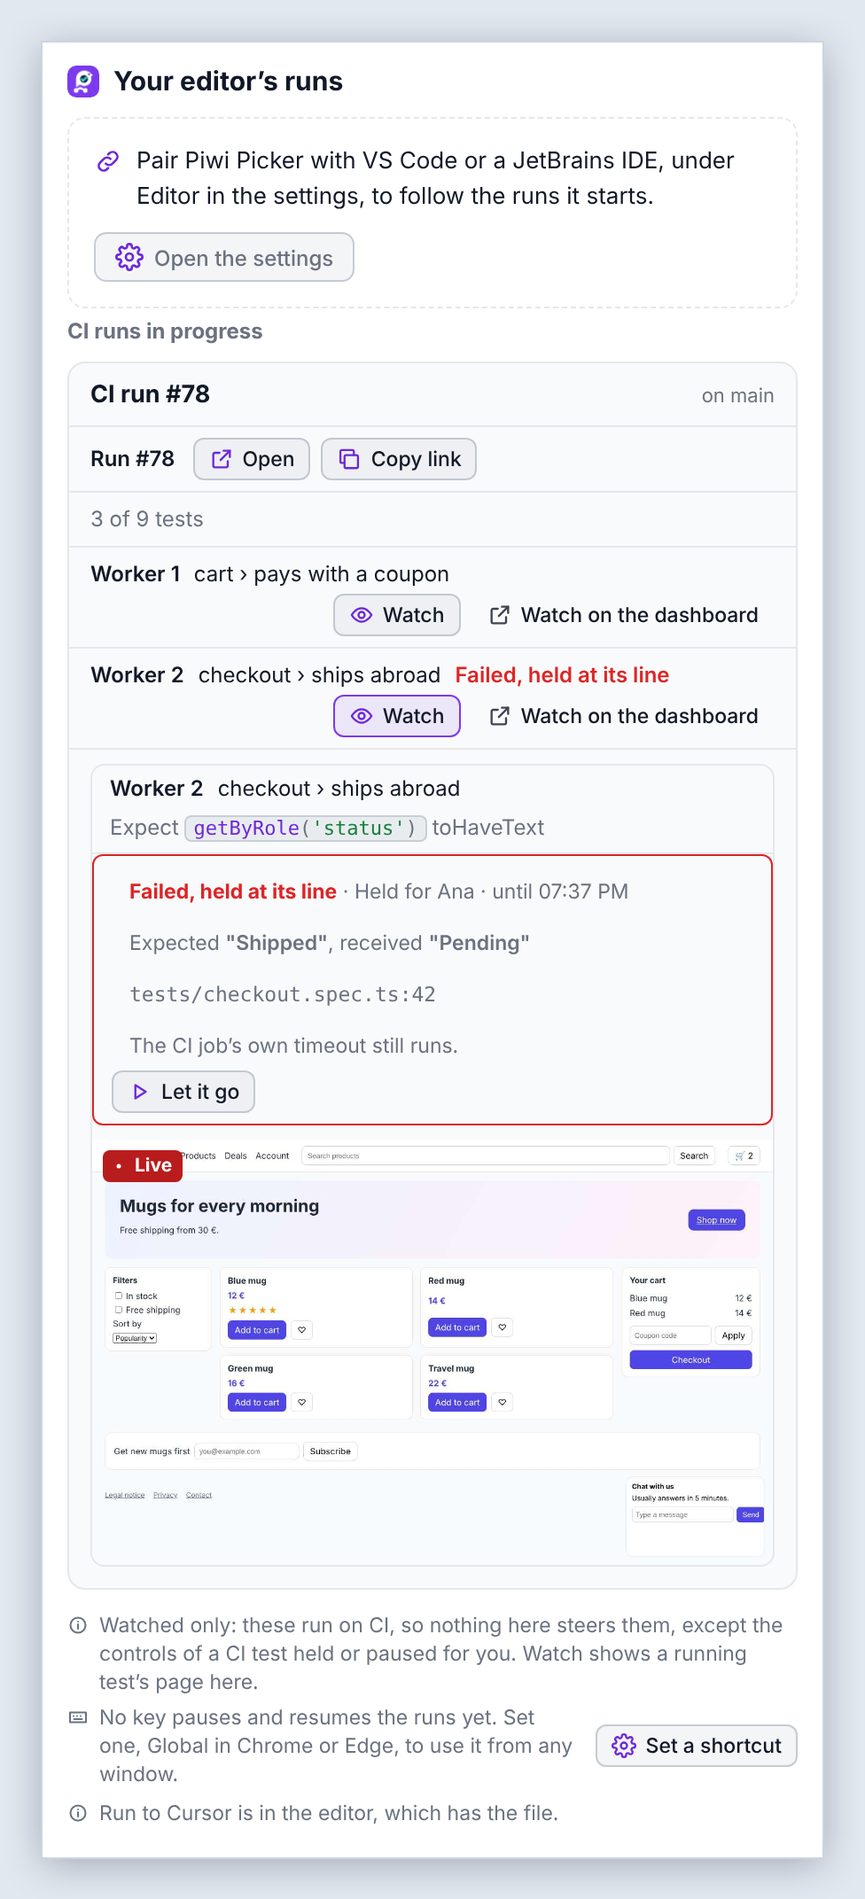
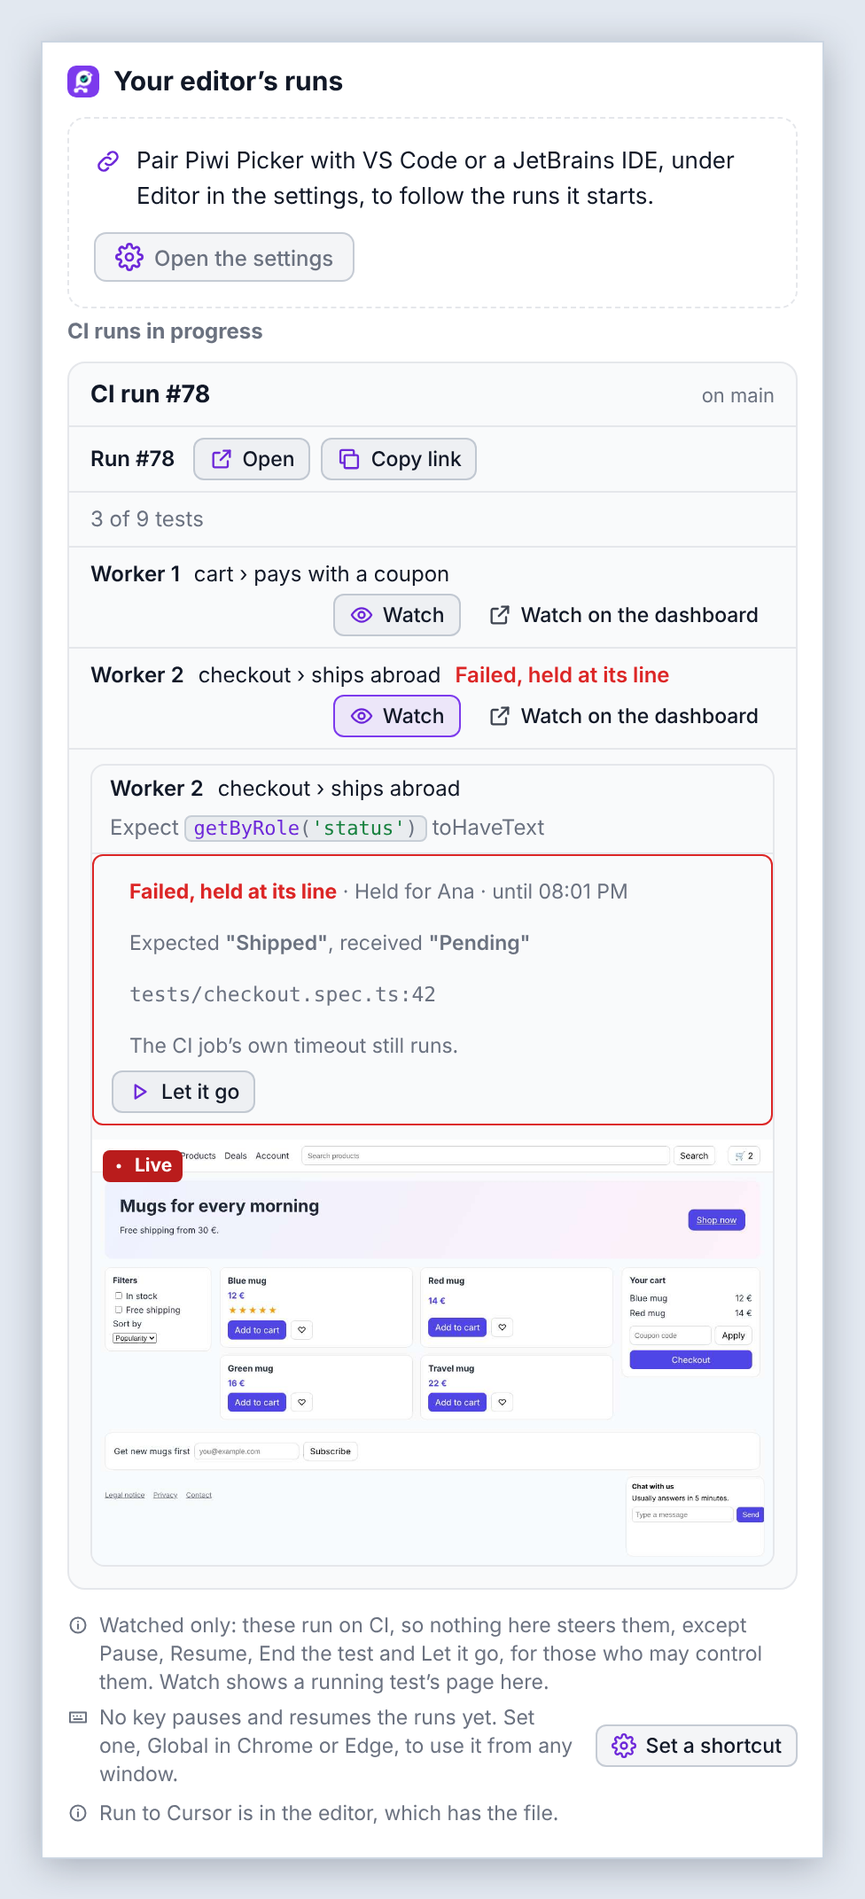
fix(extension): keep a CI lane's controls and their answer in step with its state
The run model names a lane's state by its worker, its test and the instance's
pauseSeq, and CiAsks forgets an ask the instance took once the lane shows
anything new, so a Pause dropped again for the same reason no longer leaves
Pause off. The Runs window drops what an ask came to once the lane's state
changes, and draws its controls again as the state does, so a new worker's
press posts once, for that worker. The CI runs' note names Pause, Resume, End
the test and Let it go, for those who may control them, in all five languages,
and the extension's guide keeps its rule that the CI view's images stay in
memory.

Claude-Session: https://claude.ai/code/session_01ADXAbeVo5hXs63eeexKcKH

Changed region(s): [[0.123, 0.8623, 0.8607, 0.8931], [0.6455, 0.462, 0.6762, 0.4928]]

diff --git a/packages/run-model/src/ci.ts b/packages/run-model/src/ci.ts
@@ -108,7 +108,7 @@ export function ciRunWhere(run: Pick<CiRun, 'branch' | 'project'>, severalProjec
   return project ? { key: 'runs_ciProject', args: { project } } : null;
 }
 
-/** What a surface says of every CI run it lists: they run on CI, watched only but for the controls of a test held or paused. */
+/** What a surface says of every CI run it lists: they run on CI, watched only but for the controls a controller is offered. */
 export const CI_READ_ONLY: RunMessage = { key: 'runs_ciReadOnly' };
 
 /**
@@ -228,32 +228,44 @@ export function ciHoldKey(hold: Pick<CiHold, 'worker' | 'until'>): string {
 /**
  * **Let it go**, **Pause**, **Resume** and **End the test** asked of each CI lane (by a surface's own key of the lane),
  * once per state of the lane (`ciHoldKey` for a hold, `ciControlStateKey` for the controls): a button is off from its
- * ask until the lane's state changes, and on again after a refusal. A state the lane comes back to (a Pause dropped
- * again for the same reason) is asked anew, since the surface saw it change in between (`seen`).
+ * ask until the lane's state changes (`seen` with another key), and on again after a refusal (`refused`). An ask the
+ * instance took (`took`) goes too as soon as the lane shows anything new (`seen` with another `shown`), whatever its
+ * key: a surface that missed the states in between asks again in the one it sees.
  */
 export class CiAsks {
-  private readonly states = new Map<string, string>();
+  private readonly asks = new Map<string, { state: string; shown: string | null }>();
 
   /** Whether a control was asked in the state `state` of `lane`, and waits for its answer or went through. */
   asked(lane: string, state: string): boolean {
-    return this.states.get(lane) === state;
+    return this.asks.get(lane)?.state === state;
   }
 
   /** Ask in the state `state` of `lane`: false when a control was asked in it already. */
   ask(lane: string, state: string): boolean {
     if (this.asked(lane, state)) return false;
-    this.states.set(lane, state);
+    this.asks.set(lane, { state, shown: null });
     return true;
   }
 
   /** The ask in `state` was refused: a control may be asked in it again. */
   refused(lane: string, state: string): void {
-    if (this.asked(lane, state)) this.states.delete(lane);
+    if (this.asked(lane, state)) this.asks.delete(lane);
   }
 
-  /** The lane stands in `state` now (null for none): an ask of another state goes. */
-  seen(lane: string, state: string | null): void {
-    if (this.states.has(lane) && this.states.get(lane) !== state) this.states.delete(lane);
+  /** The instance took the ask in `state` while the lane showed `shown`: it goes once the lane shows anything else. */
+  took(lane: string, state: string, shown: string): void {
+    const ask = this.asks.get(lane);
+    if (ask?.state === state) ask.shown = shown;
+  }
+
+  /**
+   * The lane stands in `state` now (null for none), shown as `shown` (what the surface draws of it, as text): an ask of
+   * another state goes, and so does one the instance took while the lane showed something else.
+   */
+  seen(lane: string, state: string | null, shown: string | null = null): void {
+    const ask = this.asks.get(lane);
+    if (!ask) return;
+    if (ask.state !== state || (ask.shown !== null && shown !== null && ask.shown !== shown)) this.asks.delete(lane);
   }
 }
 
@@ -408,14 +420,16 @@ export function ciWorkerStateOf(
 }
 
 /**
- * The state of a CI lane's worker that its controls follow (`CiAsks`): running (with why its last Pause was dropped),
- * a Pause asked, or paused until its end; null for a worker that cannot pause.
+ * The state of a CI lane's worker that its controls follow (`CiAsks`): its test (`test`, the surface's id of it, null
+ * when unknown), the instance's count of its pause state's changes (`pauseSeq`), and running (with why its last Pause
+ * was dropped), a Pause asked, or paused until its end; null for a worker that cannot pause.
  */
-export function ciControlStateKey(state: unknown): string | null {
+export function ciControlStateKey(state: unknown, test: string | null): string | null {
   const fields = pausingWorker(state);
   const id = fields ? readLiveWorkerId(fields.shard, fields.worker, fields.slot) : null;
   if (!id) return null;
-  const at = `${id.shard ?? ''}:${id.worker}`;
+  const seq = typeof fields!.pauseSeq === 'number' && Number.isInteger(fields!.pauseSeq) ? fields!.pauseSeq : 0;
+  const at = `${id.shard ?? ''}:${id.worker}:${test ?? ''}:${seq}`;
   const pause = readCiPause(state);
   if (pause) return `${at}:paused:${pause.until ?? ''}`;
   const ask = readCiPauseAsk(state);

diff --git a/apps/extension/tests/e2e/runs-ci.spec.ts b/apps/extension/tests/e2e/runs-ci.spec.ts
@@ -277,6 +277,88 @@ test('a controller pauses a CI test on the watch of its lane, sees the Pause ask
   await expect(run.getByRole('button', { name: 'Pause', exact: true })).not.toHaveAttribute('aria-disabled', 'true');
 });
 
+/** A `lane` event of the run's stream, as a busy run sends one between the workers' states. */
+function laneEvent(n: number, worker: number, title: string, retry = 0) {
+  const event = {
+    id: { run: 78, shard: null, lane: n },
+    state: 'running',
+    worker,
+    test: { id: `t${n}-${retry}`, title, retry },
+    stop: null,
+    waiting: null,
+    done: 3,
+    failed: retry,
+  };
+  for (const res of instance.runStreams)
+    res.write(`data: ${JSON.stringify({ type: 'lane', data: event, seq: 1 })}\n\n`);
+}
+
+test('a Pause the worker drops says so alone, and Pause is offered again however fast the drop came', async ({
+  context,
+  extensionId,
+}) => {
+  instance.controller = true;
+  const page = await context.newPage();
+  await openRuns(page, extensionId);
+  const run = page.getByRole('region', { name: 'CI run #78' });
+  await run
+    .getByRole('listitem')
+    .filter({ hasText: 'Worker 2' })
+    .getByRole('button', { name: 'Watch', exact: true })
+    .click();
+  await expect.poll(() => instance.watches.length).toBe(1);
+  const why = 'No test runs on this worker now.';
+  instance.worker({ ...PAUSING, pauseSeq: 1 });
+  const pause = run.getByRole('button', { name: 'Pause', exact: true });
+  await pause.click();
+  await expect.poll(() => instance.controls.length).toBe(1);
+  await expect(run.locator('.ci-controls')).toContainText('The test pauses before its next call.');
+  // The Pause is taken, then dropped at once: what the click came to goes with the state it was said in.
+  laneEvent(0, 4, 'cart › pays with a coupon');
+  instance.worker({ ...PAUSING, pauseAsked: {}, pauseSeq: 2 });
+  instance.worker({ ...PAUSING, pauseDropped: why, pauseSeq: 3 });
+  await expect(run.locator('.ci-controls')).toContainText(`The Pause was dropped: ${why}`);
+  await expect(run.locator('.ci-controls')).not.toContainText('The test pauses before its next call.');
+  await expect(pause).not.toHaveAttribute('aria-disabled', 'true');
+  // The same again, the same reason: Pause is offered again all the same.
+  await pause.click();
+  await expect.poll(() => instance.controls.length).toBe(2);
+  instance.worker({ ...PAUSING, pauseAsked: {}, pauseSeq: 4 });
+  instance.worker({ ...PAUSING, pauseDropped: why, pauseSeq: 5 });
+  await expect(pause).not.toHaveAttribute('aria-disabled', 'true');
+});
+
+test('a new worker in the lane takes the controls: one press, one command, for that worker', async ({
+  context,
+  extensionId,
+}) => {
+  instance.controller = true;
+  const page = await context.newPage();
+  await openRuns(page, extensionId);
+  const run = page.getByRole('region', { name: 'CI run #78' });
+  await run
+    .getByRole('listitem')
+    .filter({ hasText: 'Worker 2' })
+    .getByRole('button', { name: 'Watch', exact: true })
+    .click();
+  await expect.poll(() => instance.watches.length).toBe(1);
+  instance.worker({ ...PAUSING, pauseSeq: 1 });
+  await expect(run.getByRole('button', { name: 'Pause', exact: true })).toBeVisible();
+  // Playwright starts worker 6 in the lane after a failure: the lane's next test.
+  laneEvent(1, 6, 'checkout › ships abroad', 1);
+  instance.worker({ ...PAUSING, connected: false });
+  instance.worker({ ...PAUSING, worker: 6, pauseSeq: 0 });
+  await page.waitForTimeout(800);
+  const pause = run.getByRole('button', { name: 'Pause', exact: true });
+  await pause.click();
+  await pause.dispatchEvent('click');
+  await page.waitForTimeout(500);
+  expect(instance.controls.map((c) => c.body)).toEqual([
+    { watch: 'watch-0123456789ab', shard: null, worker: 6, slot: 1, command: 'pause' },
+  ]);
+  await expect(pause).toHaveAttribute('aria-disabled', 'true');
+});
+
 test('a CI test paused offers no control to a watch the instance did not say is a controller’s', async ({
   context,
   extensionId,

diff --git a/packages/run-model/tests/ci.test.ts b/packages/run-model/tests/ci.test.ts
@@ -99,7 +99,7 @@ describe('the CI runs of a project in progress', () => {
     expect(where(run(78, { branch: null }), true)).toBe('Shop');
     expect(where(run(78, { branch: null }), false)).toBeNull();
     expect(en.say(CI_READ_ONLY.key)).toContain(
-      'nothing here steers them, except the controls of a CI test held or paused for you',
+      'nothing here steers them, except Pause, Resume, End the test and Let it go, for those who may control them',
     );
   });
 });
@@ -327,12 +327,21 @@ describe('the controls of a CI lane, asked once per state', () => {
   };
 
   it('names each state of a lane’s worker apart: running, a Pause asked, paused until its end, a Pause dropped', () => {
-    expect(ciControlStateKey(state())).toBe(':3:running:');
-    expect(ciControlStateKey(state({ pauseAsked: { by: 'Ana' } }))).toBe(':3:asked');
-    expect(ciControlStateKey(state({ paused: PAUSED, pausedBy: 'Ana' }))).toBe(':3:paused:1763727900000');
-    expect(ciControlStateKey(state({ pauseDropped: 'No test runs.' }))).toBe(':3:running:No test runs.');
-    expect(ciControlStateKey(state({ pauses: undefined }))).toBeNull();
-    expect(ciControlStateKey(null)).toBeNull();
+    expect(ciControlStateKey(state(), 't1')).toBe(':3:t1:0:running:');
+    expect(ciControlStateKey(state({ pauseAsked: { by: 'Ana' }, pauseSeq: 1 }), 't1')).toBe(':3:t1:1:asked');
+    expect(ciControlStateKey(state({ paused: PAUSED, pausedBy: 'Ana', pauseSeq: 3 }), 't1')).toBe(
+      ':3:t1:3:paused:1763727900000',
+    );
+    expect(ciControlStateKey(state({ pauseDropped: 'No test runs.', pauseSeq: 2 }), 't1')).toBe(
+      ':3:t1:2:running:No test runs.',
+    );
+    // A Pause dropped again for the same reason, or the worker's next test, is another state.
+    expect(ciControlStateKey(state({ pauseDropped: 'No test runs.', pauseSeq: 4 }), 't1')).not.toBe(
+      ciControlStateKey(state({ pauseDropped: 'No test runs.', pauseSeq: 2 }), 't1'),
+    );
+    expect(ciControlStateKey(state(), 't2')).not.toBe(ciControlStateKey(state(), 't1'));
+    expect(ciControlStateKey(state({ pauses: undefined }), 't1')).toBeNull();
+    expect(ciControlStateKey(null, 't1')).toBeNull();
   });
 
   it('finds the state of a lane’s worker: by its lane and its worker, else, from an older reporter, its worker', () => {
@@ -344,6 +353,23 @@ describe('the controls of a CI lane, asked once per state', () => {
     expect(ciWorkerStateOf([lane1], { shard: null, slot: 1 }, 4)).toBeNull();
     expect(ciWorkerStateOf([older], { shard: null, slot: 2 }, 5)).toBe(older);
     expect(ciWorkerStateOf([lane1], { shard: 2, slot: 1 }, 3)).toBeNull();
+  });
+
+  it('forgets an ask the instance took once the lane shows anything new, whatever its state’s key', () => {
+    const asks = new CiAsks();
+    expect(asks.ask('lane', 'k')).toBe(true);
+    asks.seen('lane', 'k', 'shown-1');
+    asks.took('lane', 'k', 'shown-1');
+    // Redrawn as it was: still asked.
+    asks.seen('lane', 'k', 'shown-1');
+    expect(asks.asked('lane', 'k')).toBe(true);
+    // Anything new of the lane after the answer, even under the same key: asked anew.
+    asks.seen('lane', 'k', 'shown-2');
+    expect(asks.asked('lane', 'k')).toBe(false);
+    // An ask not answered yet stays while the lane's key stays.
+    asks.ask('lane', 'k');
+    asks.seen('lane', 'k', 'shown-3');
+    expect(asks.asked('lane', 'k')).toBe(true);
   });
 
   it('forgets an ask as the lane’s state changes, so the same state coming back is asked anew', () => {

diff --git a/apps/extension/src/runs/main.ts b/apps/extension/src/runs/main.ts
@@ -1314,8 +1314,8 @@ interface CiView extends RunsCiLane {
   call: string | null;
   /** The instance said this window's watch of the lane counts as a controller's: **Let it go** may be offered. */
   controller: boolean;
-  /** What **Let it go** or a control came to, until the lane's hold or pause changes. */
-  ciNote: { ok: boolean; text: string } | null;
+  /** What **Let it go** or a control came to, in the lane's state it was asked in (`state`), dropped once it changes. */
+  ciNote: { ok: boolean; text: string; state: string } | null;
 }
 
 let ciView: CiView | null = null;
@@ -1484,8 +1484,16 @@ const ciAsks = new CiAsks();
 function ciStateKey(test: RunsCiTest | undefined): string | null {
   if (!test) return null;
   if (test.held) return `held:${ciHoldKey(test.held)}`;
-  const state = test.live ? ciControlStateKey(test.live) : null;
+  const state = test.live ? ciControlStateKey(test.live, `${test.title}\x1f${test.retry}`) : null;
   return state ? `control:${state}` : null;
+}
+
+/** What the window shows of each CI lane's state, as text, by `ciLaneKey`: an ask the instance took goes as it changes. */
+const ciShown = new Map<string, string>();
+
+/** A CI lane's state as the window shows it, as text: its hold, its worker's pause state, its test. */
+function ciShownOf(test: RunsCiTest | undefined): string {
+  return JSON.stringify(test ? [test.title, test.retry, test.held ?? null, test.live ?? null] : null);
 }
 
 /** A button of a CI lane: **Let it go**, else a control. */
@@ -1506,9 +1514,10 @@ async function askCiLane(view: CiView, button: CiButton, state: string): Promise
     { ok: false, message: '', ci: 'late' },
   );
   if (!answer.ok) ciAsks.refused(ciLaneKey(view), state);
+  else ciAsks.took(ciLaneKey(view), state, ciShown.get(ciLaneKey(view)) ?? '');
   if (ciView !== view) return;
   const text = answer.ok ? answer.message : ciAskRefusalText(answer, button);
-  view.ciNote = text ? { ok: answer.ok, text } : null;
+  view.ciNote = text ? { ok: answer.ok, text, state } : null;
   if (text) announce(text);
   render();
 }
@@ -2846,7 +2855,11 @@ function renderCiView(run: RunsCiRun, view: CiView): HTMLElement {
   const children: HTMLElement[] = [caption];
   const test = run.tests.find((t) => t.shard === view.shard && t.lane === view.lane);
   const state = ciStateKey(test);
-  ciAsks.seen(ciLaneKey(view), state);
+  const shown = ciShownOf(test);
+  ciShown.set(ciLaneKey(view), shown);
+  ciAsks.seen(ciLaneKey(view), state, shown);
+  // What the last ask came to stands in the state it was asked in alone.
+  if (view.ciNote && view.ciNote.state !== state) view.ciNote = null;
   const stop =
     test && state && view.status !== 'ended' && view.status !== 'refused' ? renderCiStop(view, test, state) : null;
   if (stop) children.push(stop);
@@ -2912,7 +2925,7 @@ function renderCiStop(view: CiView, test: RunsCiTest, state: string): HTMLElemen
   const ask = !hold && !pause && test.live ? ciPauseAskWords(readCiPauseAsk(test.live), runsSpeaker) : null;
   if (!hold && !pause && !buttons.length && !ask && !view.ciNote) return null;
   const asked = ciAsks.asked(ciLaneKey(view), state);
-  return part(key, [hold, pause, buttons, ask, asked, view.ciNote], () => {
+  return part(key, [state, hold, pause, buttons, ask, asked, view.ciNote], () => {
     const box = element('div', hold ? 'ci-held-box' : pause ? 'ci-held-box ci-paused-box' : 'ci-controls');
     box.setAttribute('role', 'status');
     if (hold || pause) {

diff --git a/packages/run-model/src/words.ts b/packages/run-model/src/words.ts
@@ -188,7 +188,7 @@ export const RUN_WORDS_EN = {
   runs_ciWhereProject: '$project$, on $branch$',
   runs_ciProject: '$project$',
   runs_ciReadOnly:
-    'Watched only: these run on CI, so nothing here steers them, except the controls of a CI test held or paused for you. Watch shows a running test’s page here.',
+    'Watched only: these run on CI, so nothing here steers them, except Pause, Resume, End the test and Let it go, for those who may control them. Watch shows a running test’s page here.',
   // A run on the team instance: its number and page there, and sharing it live.
   runs_runNumber: 'Run #$id$',
   runs_openRunPage: 'Open',

diff --git a/apps/extension/AGENTS.md b/apps/extension/AGENTS.md
@@ -131,11 +131,9 @@ each rule below ends with the section to read there.
 - **The Runs window talks only to the worker, through the port `RUNS_PORT`:** the worker takes the port from
   `runs.html` alone (`fromRunsPage`) and reads its messages with `parseRunsRequest`. The state the worker posts
   (`RunsState`) carries no token. (see "The Runs window")
-- **Every Runs window control but Pause, Share live, Hold failures, Stop the run, Watch the lane (`watch`), Open the
-  trace so far (`trace`) and End the test while a Pause waits (`give-up`) names the stop shown (`since`),** so a click
-  made twice never answers the next stop; `parseRunsRequest` refuses one without it, and Share live, Hold failures, Stop
-  the run, `watch`, `trace` and `give-up` with one (`runs.test.ts`). Share live asks first, the first time in a window,
-  and Stop sharing every time (`runs.spec.ts`). (see "The Runs window")
+- **A Runs window control names the stop shown (`since`), the run-wide and lane ones aside,** so a click made twice
+  never answers the next stop (`parseRunsRequest`, `runs.test.ts`). Share live asks first, the first time in a
+  window, and Stop sharing every time (`runs.spec.ts`). (see "The Runs window")
 - **What a hub sends is shown as text (a call's title through `richText`), and its image only as a `data:` JPEG whose
   base64 is checked again.** (see "The Runs window")
 - **The Runs window draws a part again only when what it shows changes (`part`, `place`); a button waiting for its
@@ -160,9 +158,9 @@ each rule below ends with the section to read there.
   copy it here. The window says its words through `runsSpeaker` (`src/shared/run-words.ts`), and `run-words.test.ts`
   holds the model's English words to the catalogs. (see "The Runs window")
 - **The Runs window's CI runs are read-only, read from the connected instance only while a window is open**
-  (`CiRunsWatch`, `src/background/ci-runs.ts`): only a held or paused test's controls reach them, on the worker's
-  one CI watch (`CiLaneWatch`) once its `hello` says controller. Checked by `ci-runs.test.ts`, `ci-watch.test.ts`,
-  `runs-ci.spec.ts`. (see "The CI runs in progress")
+  (`CiRunsWatch`, `src/background/ci-runs.ts`): only Pause, Resume, End the test and Let it go reach them, on the
+  worker's one CI watch (`CiLaneWatch`) once its `hello` says controller, and its images are kept in memory alone.
+  Checked by `ci-runs.test.ts`, `ci-watch.test.ts` and `runs-ci.spec.ts`. (see "The CI runs in progress")
 - **No code from a stop comes to the Runs window:** it goes to the editor, which writes it, or to the desktop app's
   window, which offers it to copy, and the window shows the hub's sentence that it was sent (`.note.sent`), never that
   it was written. (see "The Runs window")

diff --git a/apps/extension/ARCHITECTURE.md b/apps/extension/ARCHITECTURE.md
@@ -968,8 +968,10 @@ words through its catalogs (`runsSpeaker`, `src/shared/run-words.ts`). The worke
 - The window talks only to the worker, through the port `RUNS_PORT`. The worker takes that port from `runs.html` alone
   (`fromRunsPage`: the extension's id and the page's address), and reads its messages with `parseRunsRequest`. The
   state the worker posts (`RunsState`) carries no token, and the window makes no network call.
-- Every control but Pause, Share live and End the test while a Pause waits for a call (`give-up`, naming the worker)
-  names the stop shown (`since`), so a click made twice never answers the next stop.
+- Every control but Pause, Share live, Hold failures, Stop the run, Watch the lane (`watch`), Open the trace so far
+  (`trace`) and End the test while a Pause waits for a call (`give-up`, naming the worker) names the stop shown
+  (`since`), so a click made twice never answers the next stop; `parseRunsRequest` refuses one without it, and Share
+  live, Hold failures, Stop the run, `watch`, `trace` and `give-up` with one (`runs.test.ts`).
 - At a stop, the test's controls are Resume, Step and Finish, and End the test where the stop's `intents` list `end`
   (the hub's `runControl` `end`: the test ends there, skipped); Resume alone where it failed (`reason: 'failure'`, its
   state line **Failed at** and the place, the error under it: the stop's `error`, its lines kept, else, from a service
@@ -1193,7 +1195,10 @@ share, hold, input or pick, since they run on CI; a running test's **Watch** sho
   `ciControlsOffered` decides (**Pause**, **Resume**, **End the test**), each sending `ci-control` with its command,
   which the worker posts on that watch for the lane's worker (`CiRunsWatch.laneWorker`, `controlCiTest`), saying why
   not (`unwatched`, `uncontrolled`, `no-worker`) or the instance's sentence. Let it go and the controls are asked once
-  in each state of the lane (`CiAsks`, `ciStateKey`), their buttons off until it changes or the ask is refused.
+  in each state of the lane (`CiAsks`, `ciStateKey`: its hold, or its test and the instance's `pauseSeq`), their
+  buttons off until it changes, the lane shows anything new after the instance took the ask (`ciShown`), or the ask is
+  refused; what the ask came to shows under them in that state alone (`ciNote.state`), and the box is drawn again as
+  the state changes.
 
 ### Run-level controls, keys and the window's place
 

diff --git a/apps/docs/features/runs-window.md b/apps/docs/features/runs-window.md
@@ -28,8 +28,9 @@ failure, timed out or interrupted. The count and the outcome need `@piwitests/re
 without [**Watch**](#watch-live) and no test stopped says how one stops: a breakpoint, a `page.pause()` or **Pause**. A run [started outside Piwi](./terminal-runs) shows too, marked **Terminal** or **Test runner**.
 The CI runs in progress of the projects your [connection](./extension-connection) maps show, watched only, through
 that instance, read again every 15 seconds while the window is open, with **Open** and their running tests, each with
-**Watch** ([A CI run of your branch](./editor-ci-runs)): nothing steers them, except the controls of a CI test
-[held](./hold-ci-failure#where-it-shows) or [paused](./pause-ci-test#where-it-shows) for you.
+**Watch** ([A CI run of your branch](./editor-ci-runs)): nothing steers them, except
+[Pause, Resume, End the test](./pause-ci-test#where-it-shows) and [Let it go](./hold-ci-failure#where-it-shows), for
+those who may control them.
 
 ## The controls
 
